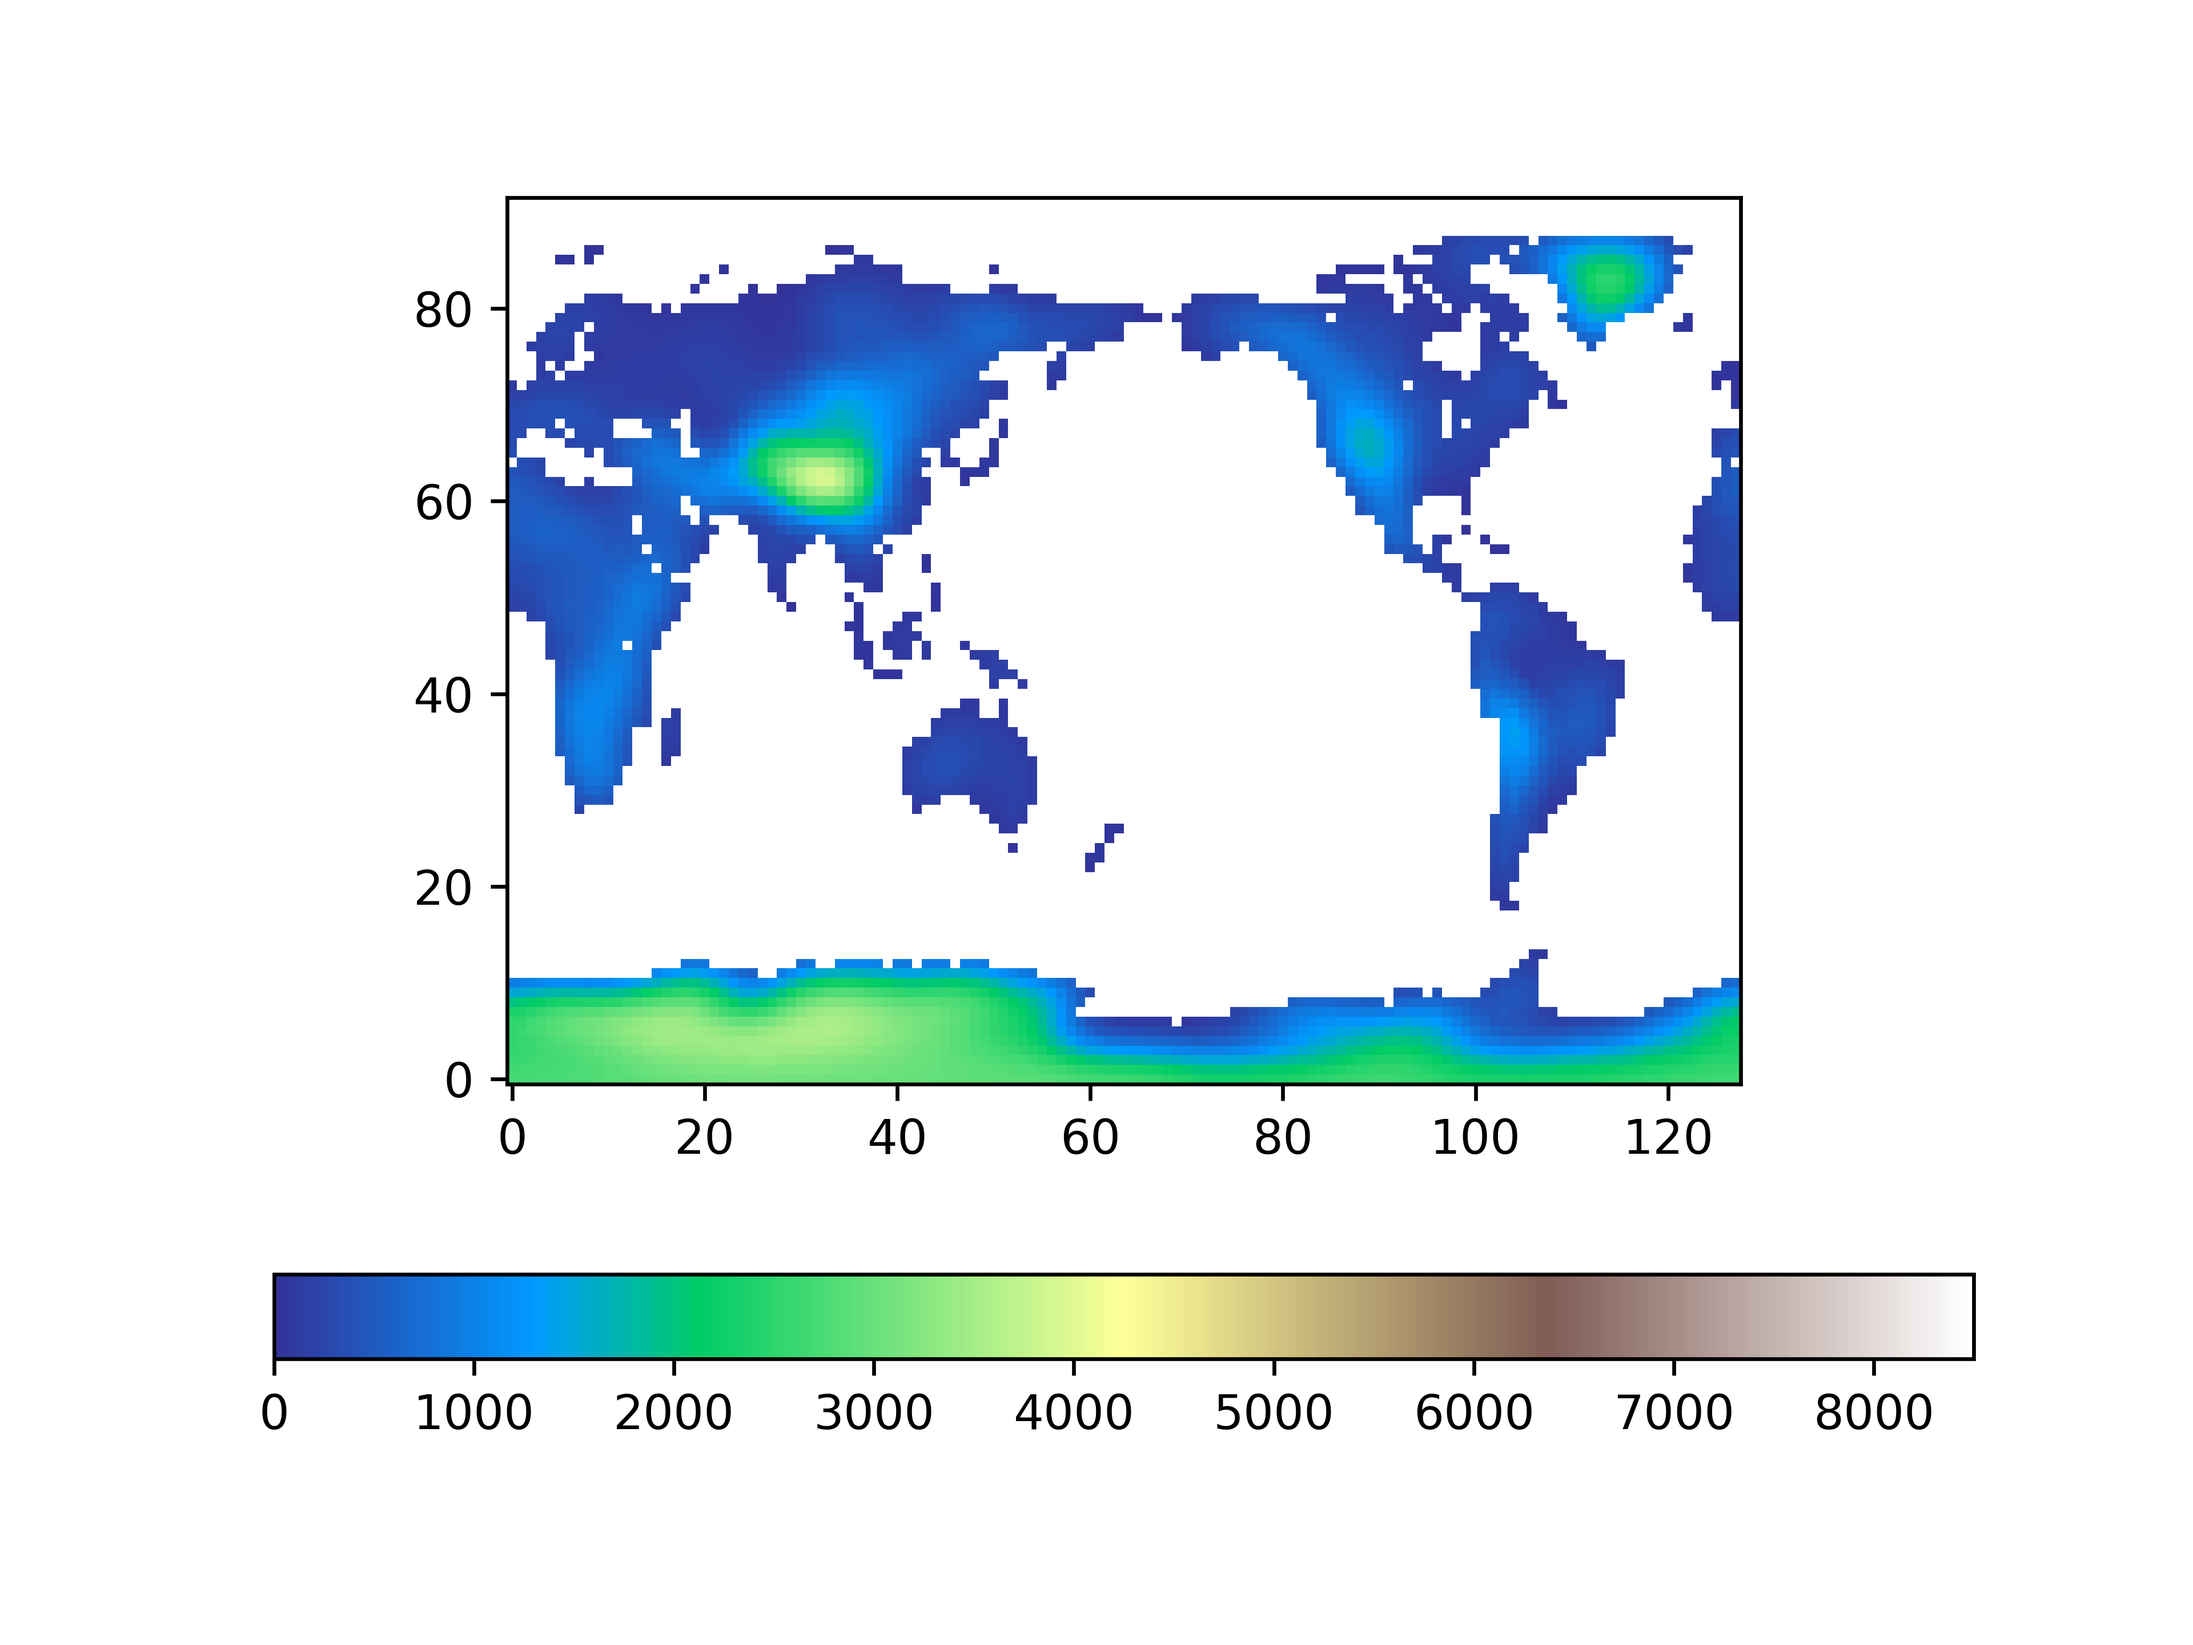
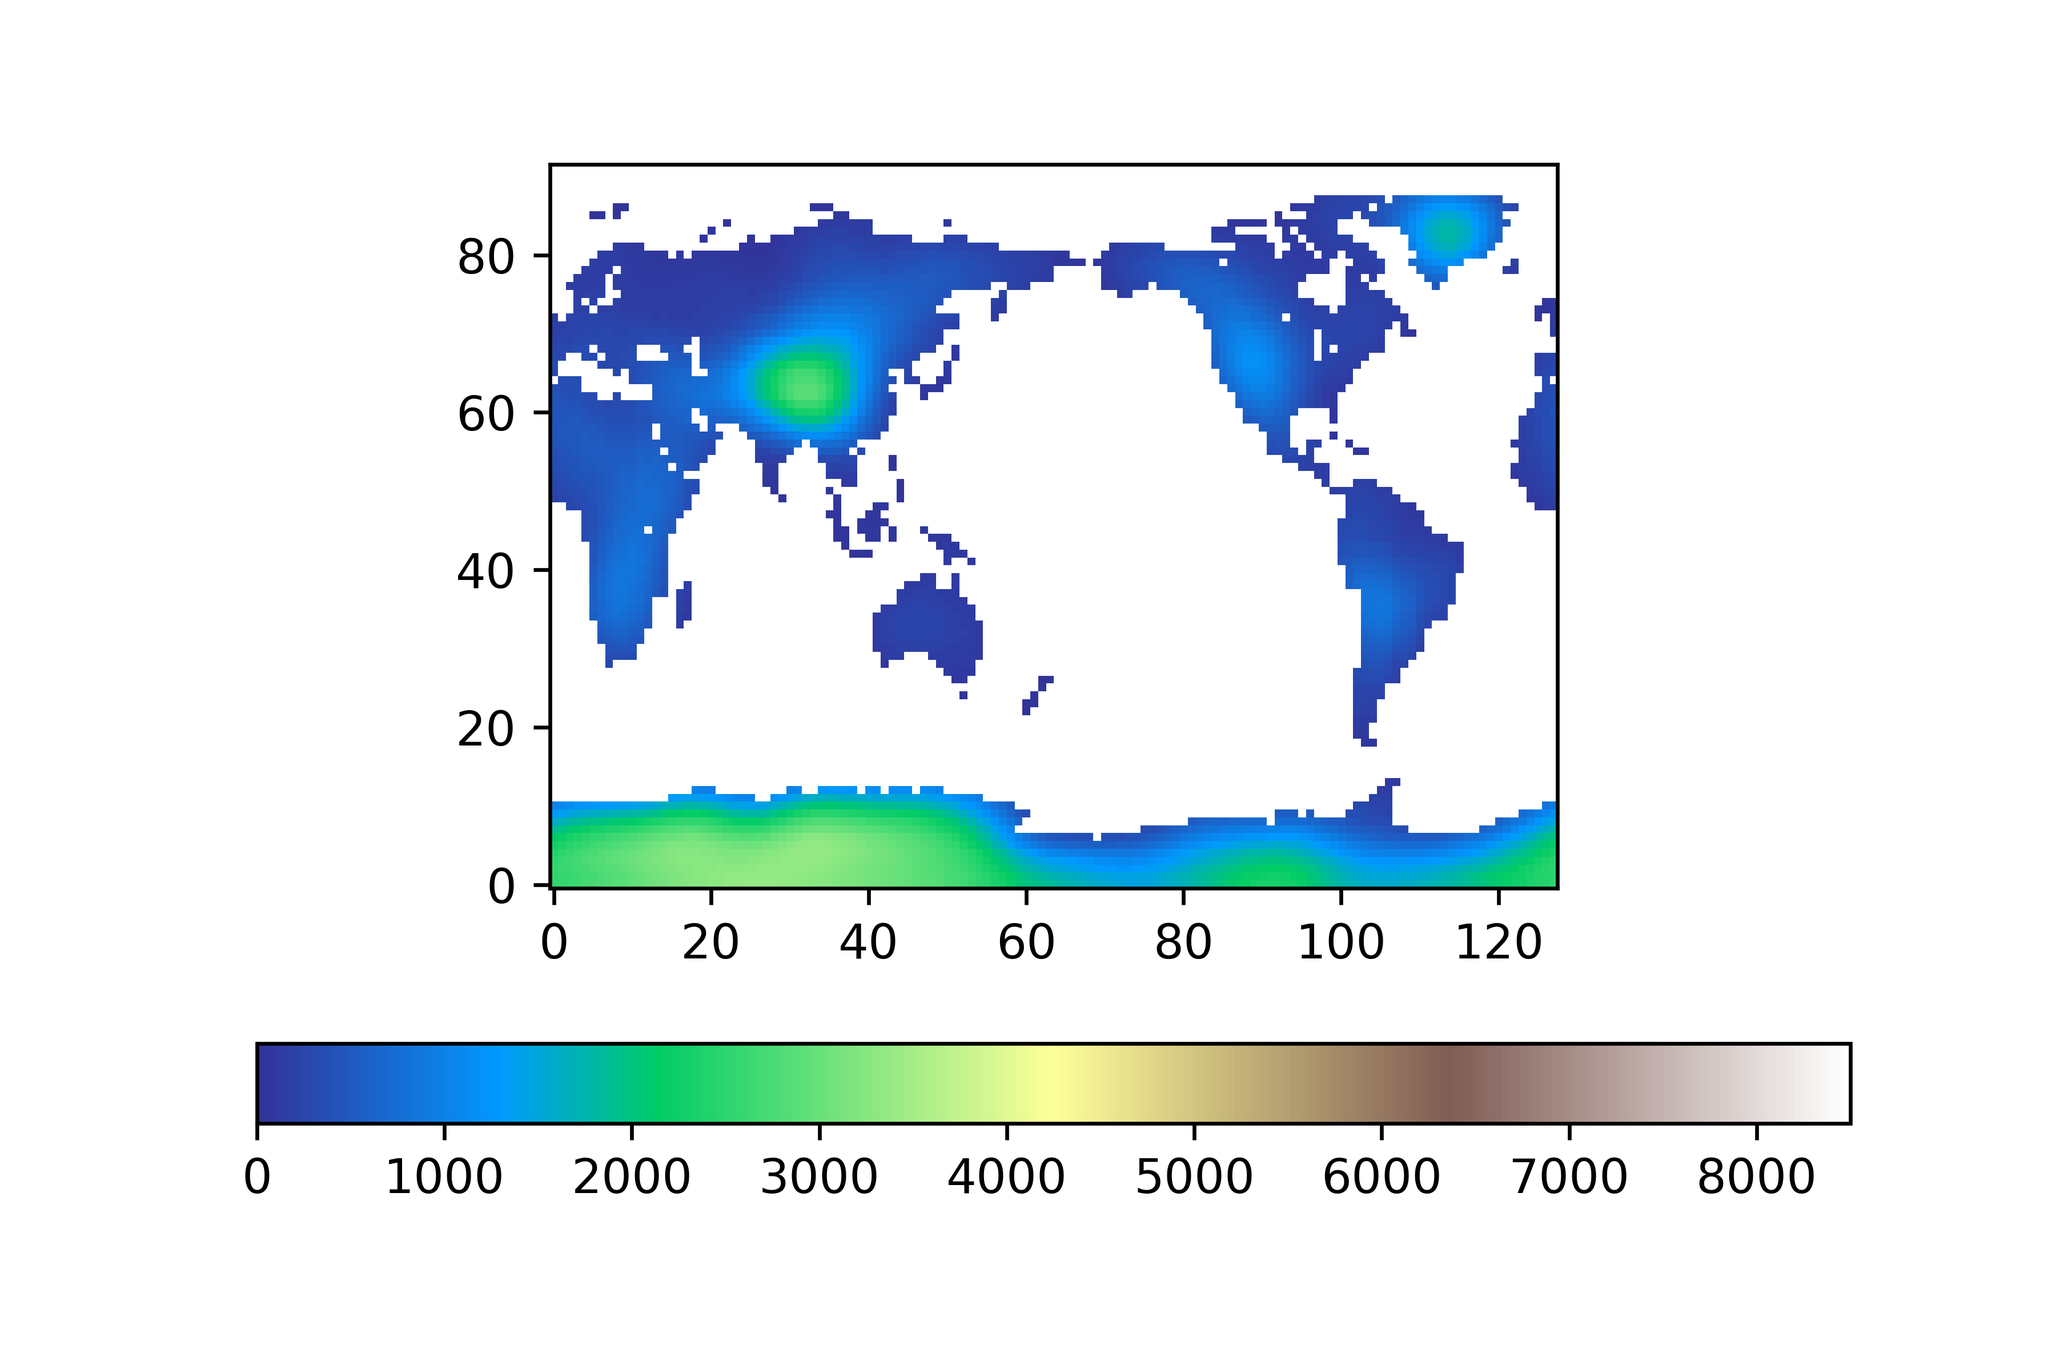
filtering operational orography with 1D ECMWF filter

diff --git a/03_make_operational_orog.py b/03_make_operational_orog.py
@@ -19,6 +19,7 @@ import oroglobo_functions as orofunc
 import utils.filtering_ecmwf as orofilt_ecmwf
 import oroglobo_plotting as oroplot
 from scipy import signal
+from scipy import ndimage
 
 # IMPORT PARAMETERS
 gridname=oropar.model_grid["GRIDNAME"]
@@ -33,19 +34,43 @@ netcdf_model_mask_in=oropar.files_in["netcdf_model_mask"].replace("*GRIDNAME*", 
 netcdf_model_grid_operational_orog_out=oropar.files_out["netcdf_model_grid_operational_orog"].replace("*GRIDNAME*", gridname) 
 img_model_grid_operational_orog_out=oropar.files_out["img_model_grid_operational_orog"].replace("*GRIDNAME*", gridname) 
 
-
+d=int(oropar.filtering_Ndx_ecmwf["d"])
+Ndx=int(oropar.filtering_Ndx_ecmwf["Ndx"])
 
 # Open the file with the model mean orography 
 data_model_grid_orog = xr.open_dataset(path_data_in+netcdf_model_grid_orog_in)
 lat_model = data_model_grid_orog.latitude.values
 lon_model = data_model_grid_orog.longitude.values
+nlat=len(lat_model)
+nlon=len(lon_model)
 
 ############ FILTERING 
 
-filt=orofilt_ecmwf.filter_ECMWF_2D(1, 6)
 
-operational_orog_on_model_grid = signal.convolve2d(data_model_grid_orog.elev, filt, mode='same', boundary='symm').astype(np.float32) # IF BUNDARY IS SET TO WRAP, SPURIOUS OROGRAPHY AT THE POLES (np IS WRAPPED WIT sp AND VICE VERSA)
-# ANOTHER SOLUTION WOULD BE TO USE "WRAP" TO GET CORRECT WRAPPING ALONG LONGITUDES, ADN CORRECT AT NP and SP: 0 at NP points, a simple average at SP points
+#### FILTERING ALONG axis 0 (at each lon, filter along MERIDIONAL DIRECTION)
+
+orogsmooth0=np.zeros((nlat,nlon))
+
+for j in range(nlon):
+    
+    D=Ndx
+    F1=orofilt_ecmwf.filter_ECMWF_1D(d,D)
+    orogsmooth0[:,j]=ndimage.convolve1d(data_model_grid_orog.elev[:,j],F1,mode='mirror')  # the edges are the poles --> approximate with "mirror"
+
+print('meridional filtering: done!')
+
+#### FILTER THE PREVIOUS FIELD ALONG AXIS 1 (at each LAT, filter along ZONAL DIRECTION)
+
+operational_orog_on_model_grid=np.zeros((nlat,nlon))
+
+for i in range(nlat):
+    
+    D=Ndx
+    F1=orofilt_ecmwf.filter_ECMWF_1D(d,D)
+    operational_orog_on_model_grid[i,:]=ndimage.convolve1d(orogsmooth0[i,:],F1,mode='wrap')  # the edges are datelines or greenwich --> wrap around the globe
+    
+print('zonal filtering: done!')
+
 
 ############ MASKING
 

diff --git a/oroglobo_parameters.py b/oroglobo_parameters.py
@@ -59,17 +59,27 @@ model_grid = {
     "gridspacing_max_km":312
 }
 
-filtering_ecmwf = {
+filtering_1km_ecmwf = {
 	"d":1, # [km]
     "Cfilt_max_zonal":3,
-    "CN_minmax":3,
+    "CN_minmax":3
+}
+
+filtering_Ndx_ecmwf = {
+	"d":1, # [pixel]
+    "Ndx":2 # [pixel]
 }
 
 
 """
 USER MANUAL
 
-### filtering_ecmwf
+### filtering_1km_ecmwf
+
+    THIS SECTIONS CONTAINS THE PARAMETERS USED TO SMOOTH THE RAW 1KM OROGRAPHY
+    TO A 1KM RESOLUTION OROGRAPHY BUT WITH OROGRAPHIC SCALES BELOW MODEL TARGET
+    GRID BOX SPACING FILTERED OUT. THE FILTERING IS PERFORMED WITH THE ECMWF
+    FILTER.
     
     d: the lenght of the filter edge. [km]    
 
@@ -87,4 +97,15 @@ USER MANUAL
                of the whole filtering precedure (the final smoothed orog will
                resemble the original one) [dimensionless]
 
+### filtering_Ndx_ecmwf
+
+    THIS SECTIONS CONTAINS THE PARAMETERS USED TO ADDITIONALLY SMOOTH THE MODEL
+    MEAN OROGRAPHY. THIS CAN BE NECESSARY FOR EXAMPLE BECAUSE OF MODEL INSTABILITIES
+    WITH TOO STEEP OROGRAPHY, OR TO MATCH THE EFFECTIVE OROGRAPHIC RESOLUTION
+    OF THE MODEL (KANEHAMA ET AL)
+
+    d: the lenght of the filter edge. [pixels]    
+    
+    Ndx: filtering scale of the ecmwf filter; coincides with D. [pixels]
+    
 """

diff --git a/01_filter_ecmwf1d_1km_orog.py b/01_filter_ecmwf1d_1km_orog.py
@@ -40,9 +40,9 @@ img_1km_global_raw_out=oropar.files_out["img_1km_global_orog"]
 img_1km_global_smooth_out=oropar.files_out["img_1km_global_orog_smooth"]
 netcdf_1km_smooth_orog_out=oropar.files_work["netcdf_1km_smooth_orog"].replace("*GRIDNAME*", gridname) 
 
-d=oropar.filtering_ecmwf["d"]
-Cfilt_max_zonal=oropar.filtering_ecmwf["Cfilt_max_zonal"]
-CN_minmax=oropar.filtering_ecmwf["CN_minmax"]
+d=int(oropar.filtering_1km_ecmwf["d"])
+Cfilt_max_zonal=int(oropar.filtering_1km_ecmwf["Cfilt_max_zonal"])
+CN_minmax=int(oropar.filtering_1km_ecmwf["CN_minmax"])
 
 #####################################################################
 
@@ -154,3 +154,6 @@ orogsmooth_da=xr.DataArray(orogsmooth, coords=[('latitude', lat),('longitude', l
 orogsmooth_da.to_dataset(name = 'elev').to_netcdf(path_data_out+netcdf_1km_smooth_orog_out)
 
 print('save to netcdf: done!')
+
+
+# run in approx. 15 min on tintin

diff --git a/02_from_1km_smooth_to_model_grid.py b/02_from_1km_smooth_to_model_grid.py
@@ -4,6 +4,11 @@
 Created on Mon Nov 20 12:50:31 2023
 
 @author: guidodavoli
+
+take the 1km reoslution orography smoothed to target model grid scale
+and aggregate to target model grid boxes (simple mean)
+
+
 """
 
 import numpy as np
